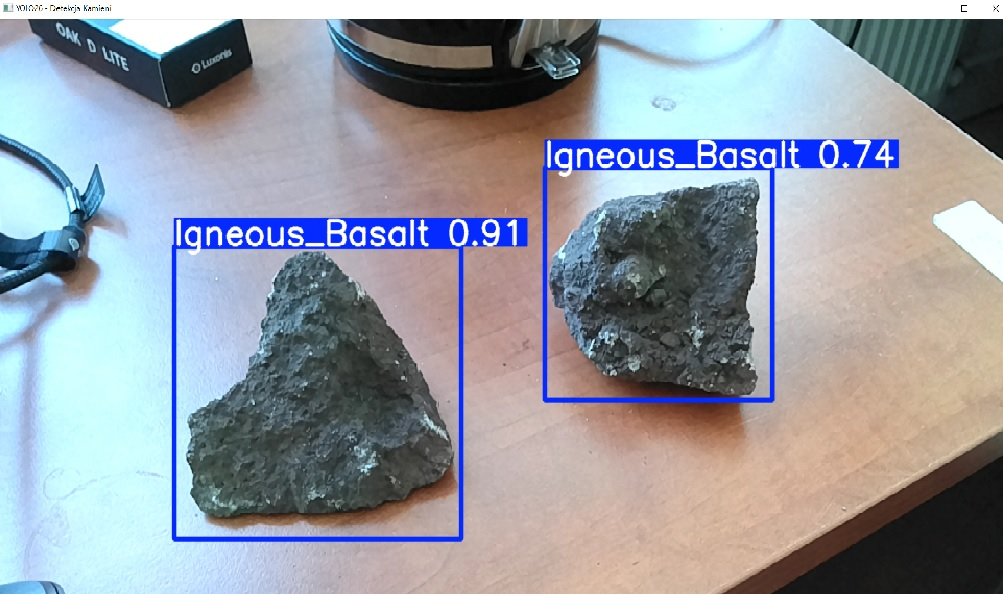
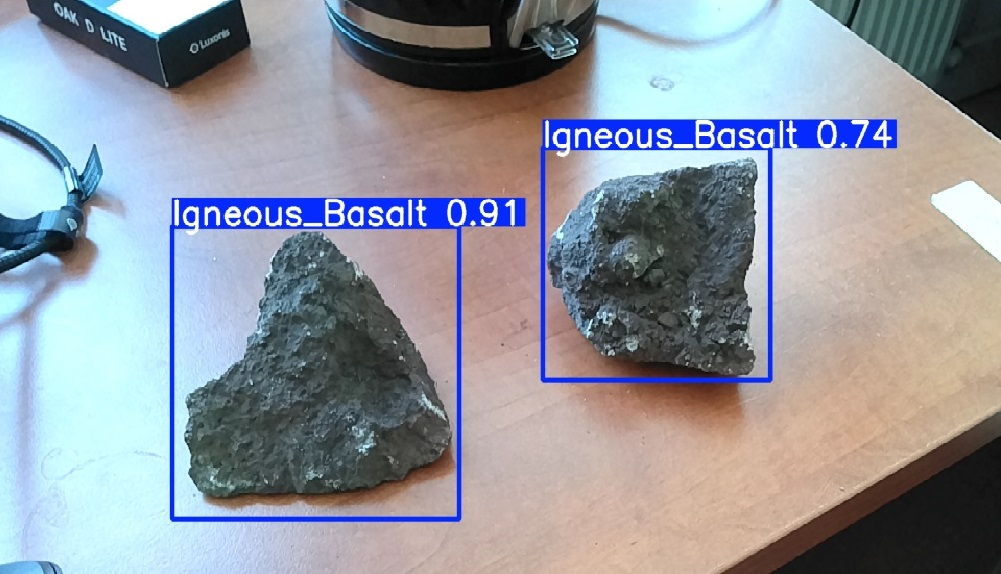
YOLO update with dimensions
nothing less nothing more

diff --git a/rocks_detection/Detection/YOLOEdges.py b/rocks_detection/Detection/YOLOEdges.py
@@ -1,0 +1,80 @@
+import cv2
+import depthai as dai
+import numpy as np
+from ultralytics import YOLO
+
+if __name__ == "__main__":
+    model_path = r"D:\Studia\cybAIR\Ambition\rocks_detection\Detection\runs\detect\depthai_model\yolo_rocks-9\weights\best.pt"
+    model = YOLO(model_path)
+
+    pipeline = dai.Pipeline()
+
+    cam = pipeline.create(dai.node.Camera).build(dai.CameraBoardSocket.CAM_A)
+    videoQueue = cam.requestOutput((1920, 1080)).createOutputQueue()
+
+    monoLeft = pipeline.create(dai.node.Camera).build(dai.CameraBoardSocket.CAM_B)
+    monoRight = pipeline.create(dai.node.Camera).build(dai.CameraBoardSocket.CAM_C)
+    stereo = pipeline.create(dai.node.StereoDepth)
+
+    monoLeftOut = monoLeft.requestFullResolutionOutput()
+    monoRightOut = monoRight.requestFullResolutionOutput()
+    monoLeftOut.link(stereo.left)
+    monoRightOut.link(stereo.right)
+
+    stereo.setRectification(True)
+    stereo.setExtendedDisparity(True)
+    stereo.setLeftRightCheck(True)
+    stereo.setDepthAlign(dai.CameraBoardSocket.CAM_A)
+    stereo.setOutputSize(1920, 1080)
+
+    depthQueue = stereo.depth.createOutputQueue()
+
+    fx = 1300.0
+    fy = 1300.0
+
+    with pipeline:
+        pipeline.start()
+
+        print("YOLO26 i stereowizja gotowe. Nacisnij 'q' aby wyjsc.")
+
+        while pipeline.isRunning():
+            videoIn = videoQueue.get()
+            depthIn = depthQueue.get()
+
+            frame = videoIn.getCvFrame()
+            latest_depth = depthIn.getFrame()
+
+            results = model.predict(source=frame, conf=0.5, stream=False, verbose=False)
+            annotated_frame = results[0].plot()
+
+            for box in results[0].boxes:
+                x1, y1, x2, y2 = map(int, box.xyxy[0])
+
+                x1_safe = max(0, x1)
+                y1_safe = max(0, y1)
+                x2_safe = min(frame.shape[1], x2)
+                y2_safe = min(frame.shape[0], y2)
+
+                roi_depth = latest_depth[y1_safe:y2_safe, x1_safe:x2_safe]
+                valid_depths = roi_depth[roi_depth > 0]
+
+                if len(valid_depths) > 0:
+                    z_mm = np.median(valid_depths)
+
+                    w_px = x2 - x1
+                    h_px = y2 - y1
+
+                    width_cm = ((w_px * z_mm) / fx) / 10.0
+                    height_cm = ((h_px * z_mm) / fy) / 10.0
+                    z_cm = z_mm / 10.0
+
+                    text = f"W:{width_cm:.1f}cm H:{height_cm:.1f}cm Z:{z_cm:.1f}cm"
+                    cv2.putText(annotated_frame, text, (x1, y2 + 25), cv2.FONT_HERSHEY_SIMPLEX, 0.7, (0, 0, 255), 2)
+
+            cv2.imshow("YOLO26 - Detekcja Kamieni", annotated_frame)
+
+            if cv2.waitKey(1) & 0xFF == ord('q'):
+                pipeline.stop()
+                break
+
+        cv2.destroyAllWindows()

diff --git a/rocks_detection/Detection/YOLOTest.py b/rocks_detection/Detection/YOLOTest.py
@@ -1,5 +1,6 @@
 import cv2
 import depthai as dai
+import numpy as np
 from ultralytics import YOLO
 
 if __name__ == "__main__":
@@ -8,24 +9,52 @@ if __name__ == "__main__":
 
     pipeline = dai.Pipeline()
 
-    cam = pipeline.create(dai.node.Camera).build()
+    cam = pipeline.create(dai.node.Camera).build(dai.CameraBoardSocket.CAM_A)
     videoQueue = cam.requestOutput((1920, 1080)).createOutputQueue()
 
-    pipeline.start()
+    monoLeft = pipeline.create(dai.node.Camera).build(dai.CameraBoardSocket.CAM_B)
+    monoRight = pipeline.create(dai.node.Camera).build(dai.CameraBoardSocket.CAM_C)
+    stereo = pipeline.create(dai.node.StereoDepth)
 
-    print("YOLO26 gotowe. Nacisnij 'q' aby wyjsc.")
+    monoLeftOut = monoLeft.requestFullResolutionOutput()
+    monoRightOut = monoRight.requestFullResolutionOutput()
+    monoLeftOut.link(stereo.left)
+    monoRightOut.link(stereo.right)
 
-    while pipeline.isRunning():
-        videoIn = videoQueue.get()
-        frame = videoIn.getCvFrame()
+    stereo.setRectification(True)
+    stereo.setExtendedDisparity(True)
+    stereo.setLeftRightCheck(True)
 
-        results = model.predict(source=frame, conf=0.5, stream=False, verbose=False)
+    disparityQueue = stereo.disparity.createOutputQueue()
 
-        annotated_frame = results[0].plot()
+    colorMap = cv2.applyColorMap(np.arange(256, dtype=np.uint8), cv2.COLORMAP_JET)
+    colorMap[0] = [0, 0, 0]
 
-        cv2.imshow("YOLO26 - Detekcja Kamieni", annotated_frame)
+    with pipeline:
+        pipeline.start()
 
-        if cv2.waitKey(1) & 0xFF == ord('q'):
-            break
+        print("YOLO26 i stereowizja gotowe. Nacisnij 'q' aby wyjsc.")
+        maxDisparity = 1
 
-    cv2.destroyAllWindows()
+        while pipeline.isRunning():
+            videoIn = videoQueue.tryGet()
+            if videoIn is not None:
+                frame = videoIn.getCvFrame()
+                results = model.predict(source=frame, conf=0.5, stream=False, verbose=False)
+                annotated_frame = results[0].plot()
+                cv2.imshow("YOLO26 - Detekcja Kamieni", annotated_frame)
+
+            disparity = disparityQueue.tryGet()
+            if disparity is not None:
+                npDisparity = disparity.getFrame()
+                if np.max(npDisparity) > 0:
+                    maxDisparity = max(maxDisparity, np.max(npDisparity))
+
+                colorizedDisparity = cv2.applyColorMap(((npDisparity / maxDisparity) * 255).astype(np.uint8), colorMap)
+                cv2.imshow("Stereowizja - Disparity", colorizedDisparity)
+
+            if cv2.waitKey(1) & 0xFF == ord('q'):
+                pipeline.stop()
+                break
+
+        cv2.destroyAllWindows()

diff --git a/rocks_detection/Detection/README.md b/rocks_detection/Detection/README.md
@@ -7,6 +7,7 @@ This repository contains a comprehensive pipeline for rock detection, ranging fr
 ### YOLO Real-Time Detection
 * **YOLOModel.py** - Handles the training phase of a custom YOLO model. It configures training parameters, automatically saves the best weights, and includes a validation routine for static test images.
 * **YOLOTest.py** - Executes live inference using the trained YOLO model. It utilizes a custom multi-threaded webcam handler to eliminate frame lag and ensure smooth detection.
+* **YOLOEdges.py** - Executes real-time YOLO detection combined with OAK-D stereo vision to calculate the physical dimensions (width, height, depth) of rocks in centimeters.
 * **TymonRocks.py** - A streamlined YOLOv8 script designed for quick field testing and live detection.
 
 ### Mathematical Analysis
@@ -27,3 +28,6 @@ This repository contains a comprehensive pipeline for rock detection, ranging fr
 
 ### Real-time object detection using YOLO26
 ![Real-time object detection using YOLO26](results/resultsYOLO1.jpg)
+
+### Real-time object detection using YOLO26 with dimensioning
+![Real-time object detection using YOLO26](results/resultsYOLO2.jpg)
